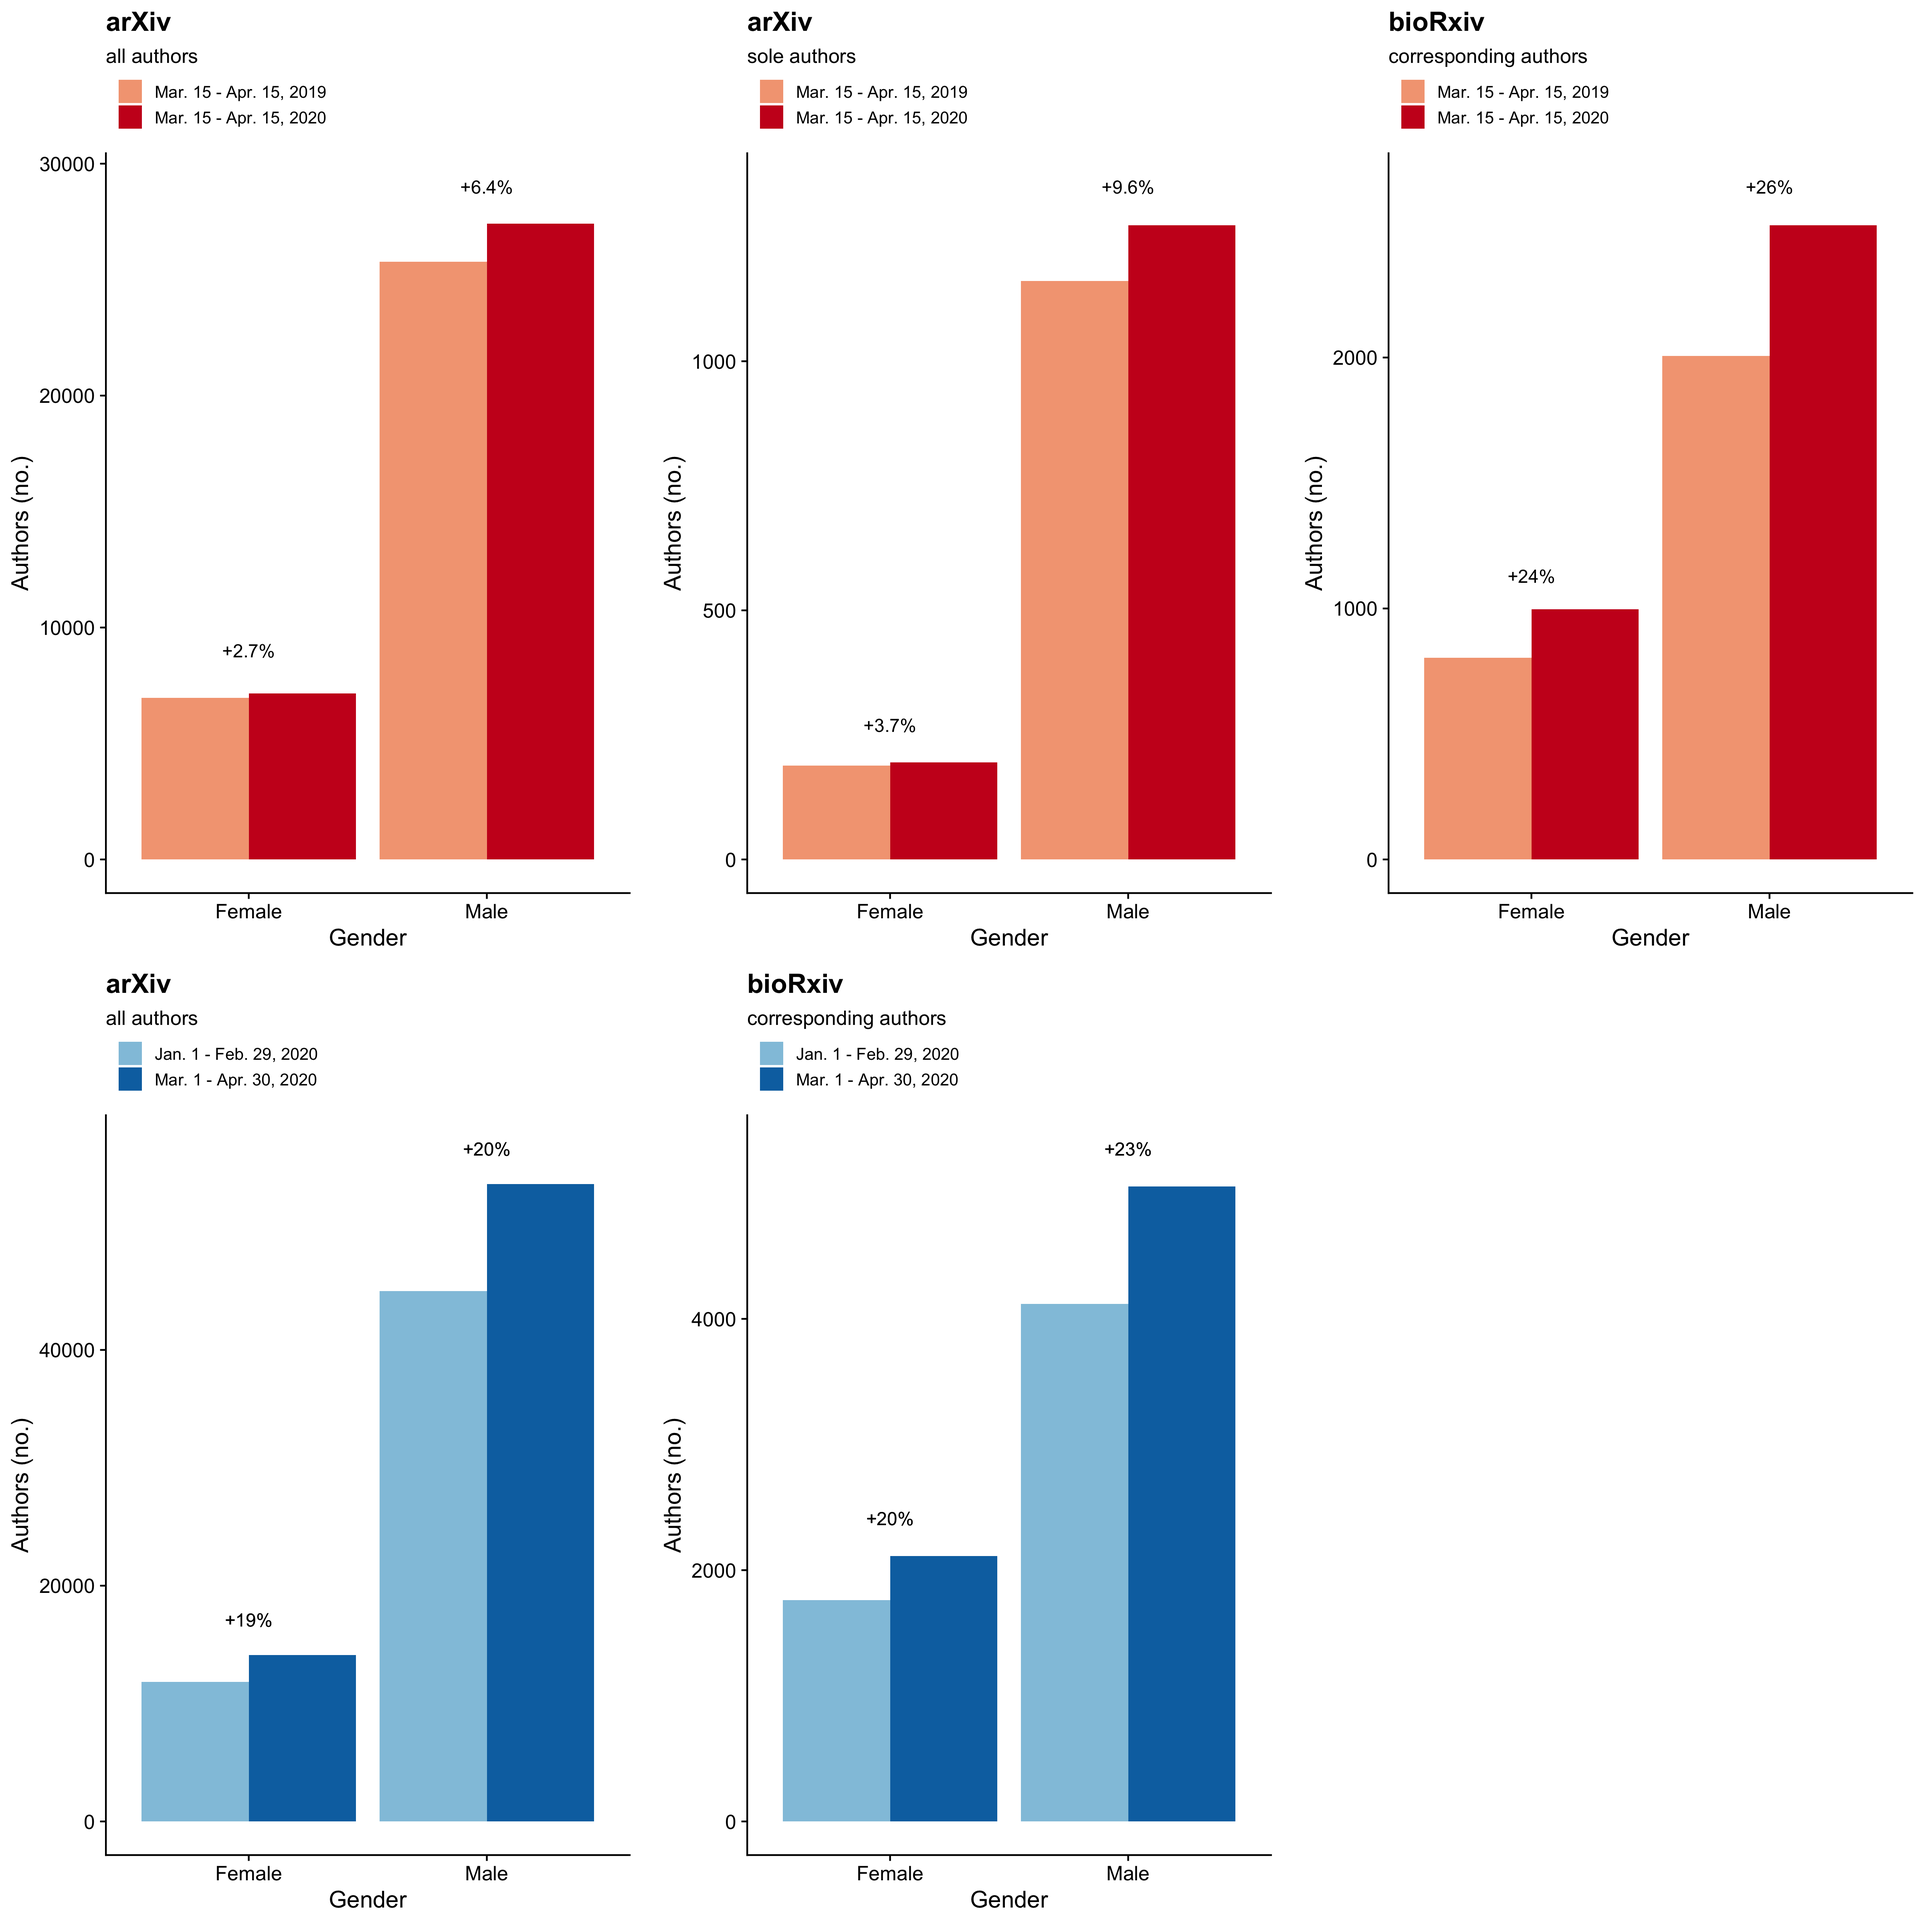
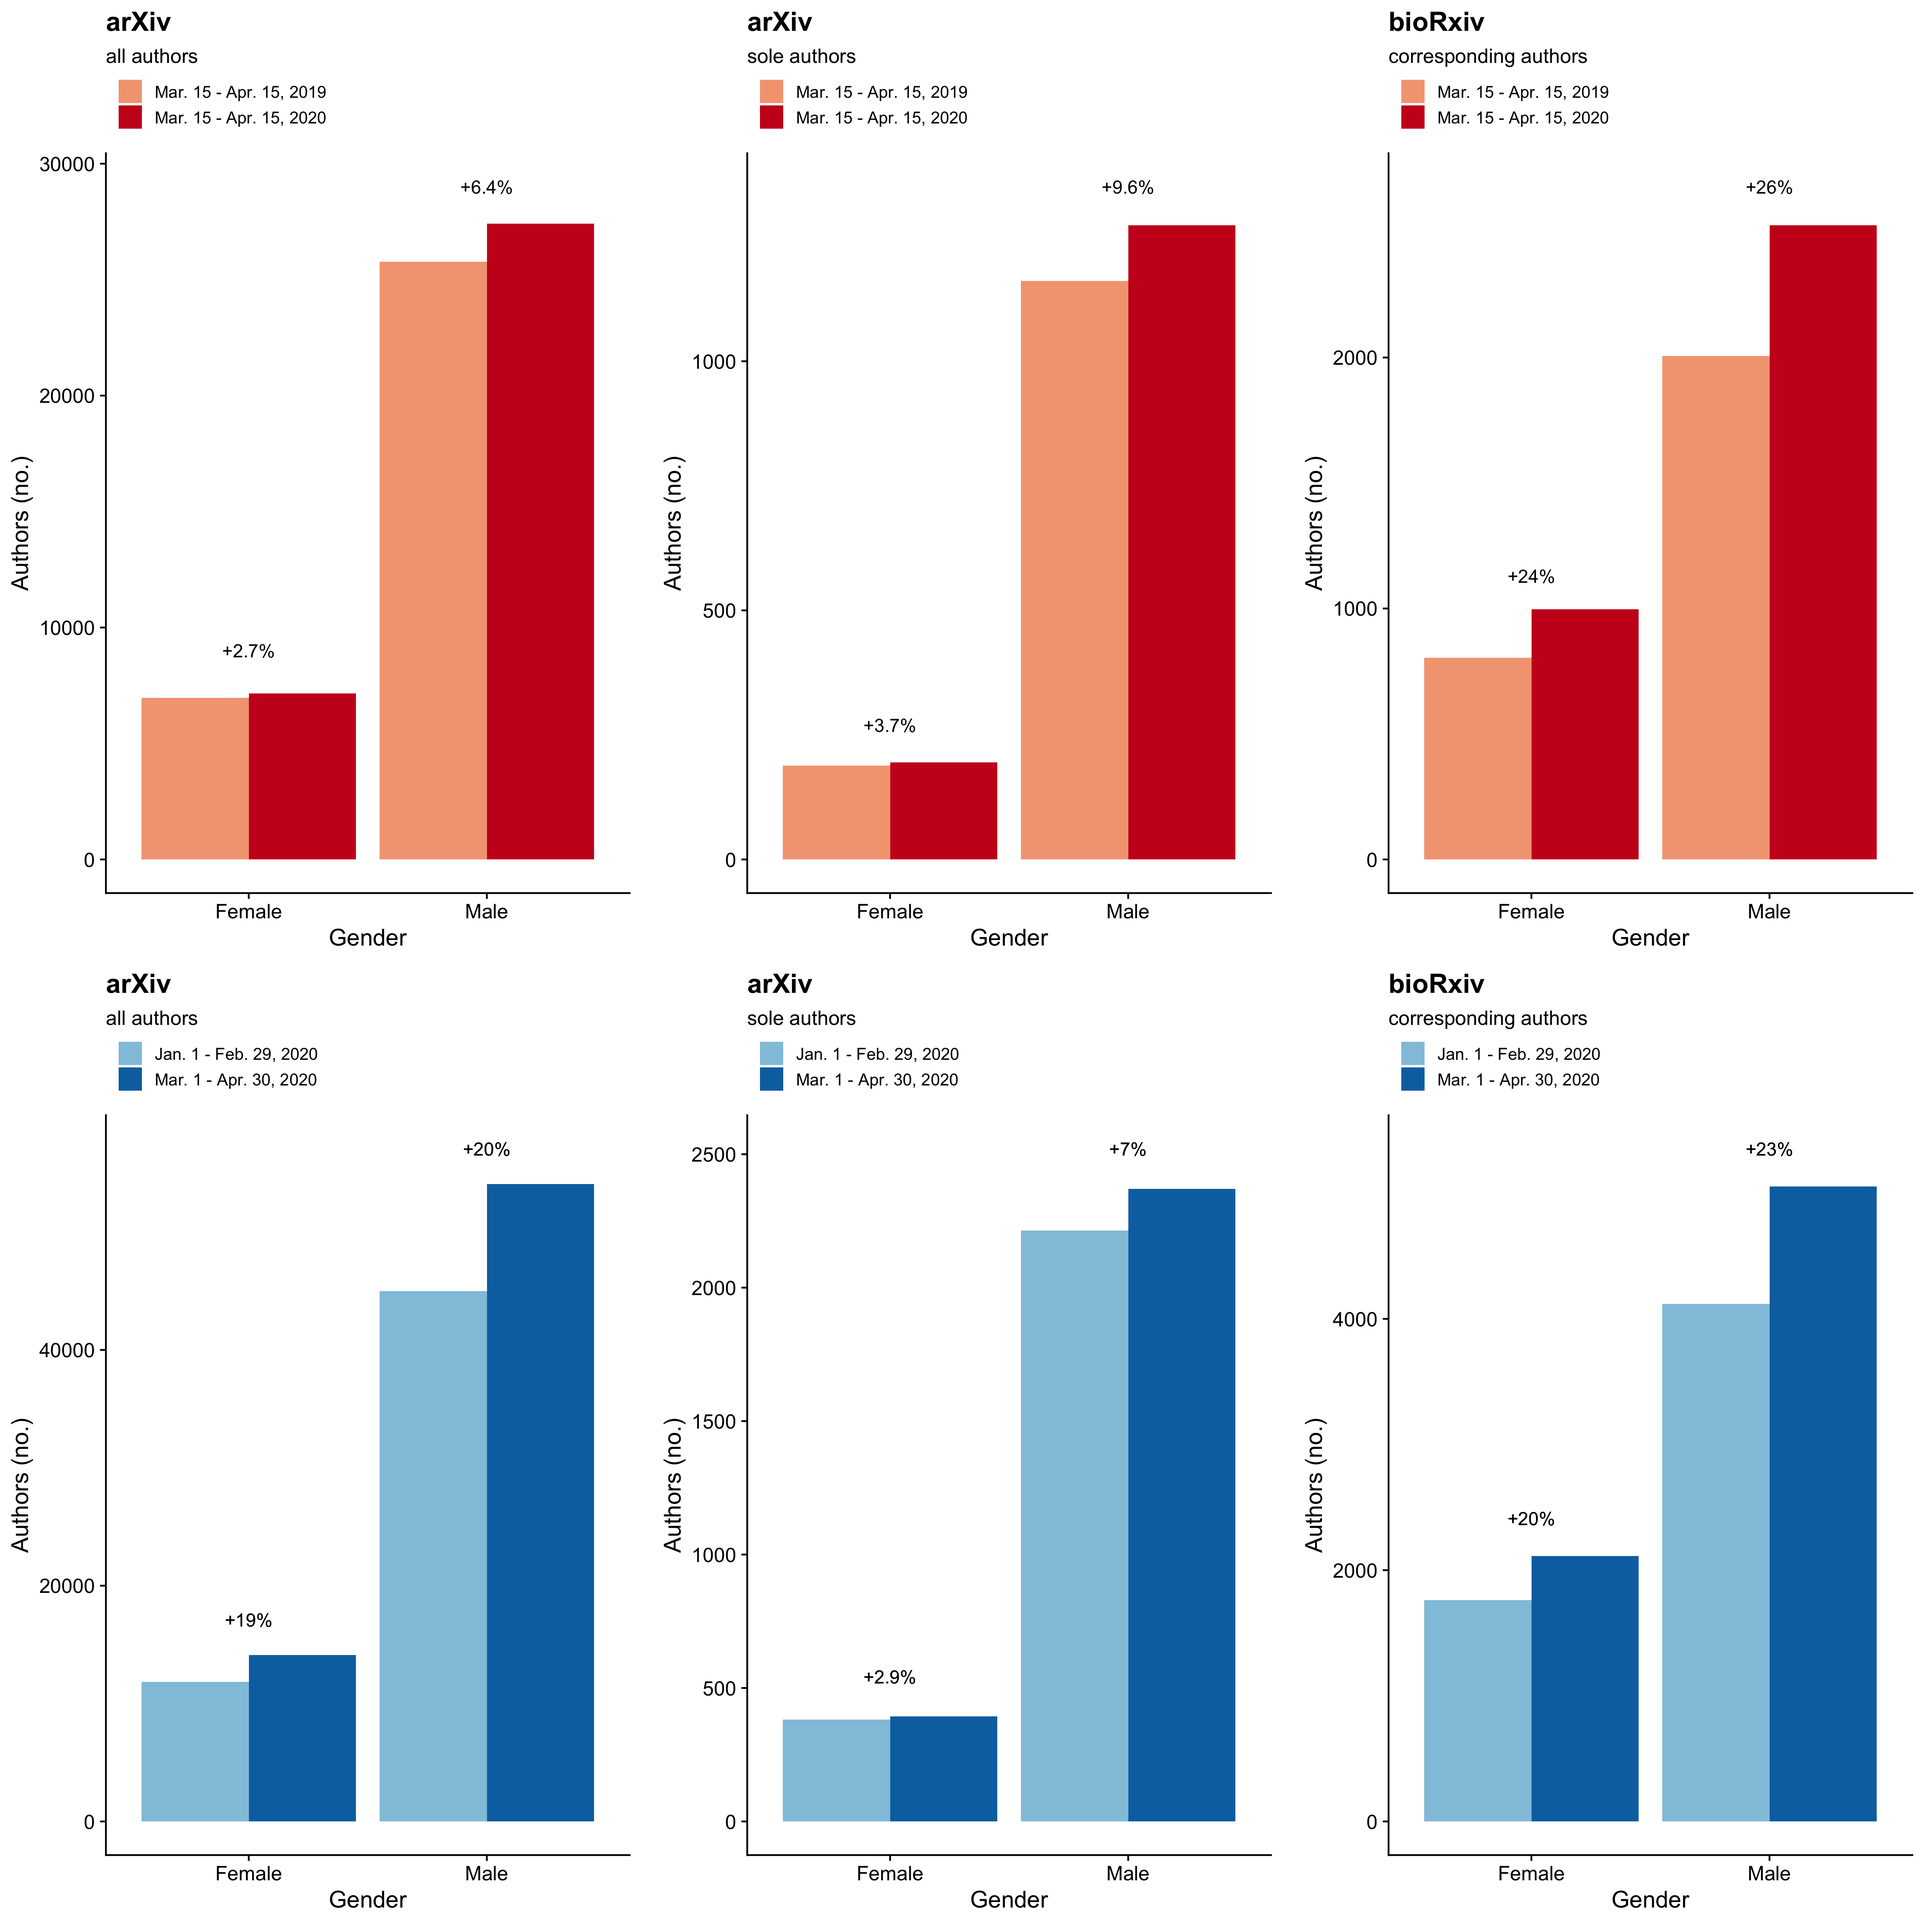
Update figures

diff --git a/README.md b/README.md
@@ -308,7 +308,29 @@ kable(arxiv.long[,1:3])
 
 Preprints had over 9000 more male authors during the pandemic than right
 before, while female authors increased by a little more than 2200 over
-the same period.
+the same
+period.
+
+``` r
+arxiv.sole <- as.data.frame(ungroup(subset(df.all2020, as.Date(submitted) >= "2020-01-01" & as.Date(submitted) <= "2020-04-30" & author.n == 1) %>% group_by(COVID) %>% summarize(female.n=sum(female.n, na.rm=TRUE), male.n=sum(male.n, na.rm=TRUE)))) #Summarize by month
+arxiv.sole.long <- gather(arxiv.sole, gender, n, female.n:male.n) #Make wide data long
+arxiv.sole.long$gender <- as.factor(arxiv.sole.long$gender) #Make sure gender is a factor
+levels(arxiv.sole.long$gender) <- c("Female", "Male") #Capitalize genders
+arxiv.sole.t <- as.data.frame(t(arxiv.sole[, -1])) #Transpose
+colnames(arxiv.sole.t) <- c("January 1-February 29, 2020", "March 1-April 30, 2020") #Fix column names
+arxiv.sole.t$per <- ((arxiv.sole.t$`March 1-April 30, 2020`-arxiv.sole.t$`January 1-February 29, 2020`)/(arxiv.sole.t$`January 1-February 29, 2020`))*100 #Calculate percent change
+arxiv.sole.long$per <- c(arxiv.sole.t$per[1],arxiv.sole.t$per[1],arxiv.sole.t$per[2],arxiv.sole.t$per[2]) #Add percent change to long-format dataframe
+bump = 150 #Set for figure annotation
+arxiv.sole.long$y <- c((arxiv.sole.long[2,3]+bump), (arxiv.sole.long[2,3]+bump), (arxiv.sole.long[4,3]+bump), (arxiv.sole.long[4,3]+bump)) #Y coordinates for figure text annotation
+arxiv.sole.long$x <- c(1,1,2,2) #X coordinates for figure text annotation
+m.labels=c("Jan. 1 - Feb. 29, 2020", "Mar. 1 - Apr. 30, 2020")
+
+#Make figure
+p4 <- ggplot(data=arxiv.sole.long, aes(fill=COVID, y=n, x=gender))+geom_bar(position="dodge", stat="identity")+theme_cowplot()+ggtitle("arXiv")+xlab("Gender")+ylab("Authors (no.)")+labs(fill="Gender")+theme(legend.position="top", legend.title=element_blank(), legend.text=element_text(size=fontsize), legend.justification="left")+geom_text(aes(x=x,y=y, label=paste0("+", round(per,digits=1), "%")))+scale_fill_manual(values = colours2, labels=m.labels)+labs(title="arXiv", subtitle="sole authors")+guides(fill=guide_legend(nrow=2))
+p4
+```
+
+![](README_files/figure-gfm/Early%202020%20arXiv%20sole%20author%20analysis-1.png)<!-- -->
 
 ## bioRxiv submissions
 
@@ -404,14 +426,14 @@ biorxiv.yr.wide <- spread(biorxiv.yr, year, n) #Make long data wide
 biorxiv.yr.wide$per.dif.1920 <- ((biorxiv.yr.wide$`2020`-biorxiv.yr.wide$`2019`)/biorxiv.yr.wide$`2019`)*100 #Calculate percent change, 2019 to 2020
 
 #Make figure for 2019 versus 2020 comparison
-p4 <- ggplot(data=biorxiv.yr, aes(fill=year, y=n, x=as.factor(gender)))+geom_bar(position="dodge",stat="identity")+theme_cowplot()+xlab("Gender")+ylab("Authors (no.)")+labs(fill="Year")+labs(fill="Date range")+scale_fill_manual(values = colours1, labels=yr.labels)+ggtitle("bioRxiv")+ggplot2::annotate("text", x=c(1,2),  y=c(1130,2680), label = paste0("+", round(biorxiv.yr.wide$per.dif.1920), "%"))+theme(legend.position="top", legend.justification="left", legend.title=element_blank(), legend.text=element_text(size=fontsize))+guides(fill = guide_legend(nrow=2))+labs(title="bioRxiv", subtitle="corresponding authors")
-p4
+p5 <- ggplot(data=biorxiv.yr, aes(fill=year, y=n, x=as.factor(gender)))+geom_bar(position="dodge",stat="identity")+theme_cowplot()+xlab("Gender")+ylab("Authors (no.)")+labs(fill="Year")+labs(fill="Date range")+scale_fill_manual(values = colours1, labels=yr.labels)+ggtitle("bioRxiv")+ggplot2::annotate("text", x=c(1,2),  y=c(1130,2680), label = paste0("+", round(biorxiv.yr.wide$per.dif.1920), "%"))+theme(legend.position="top", legend.justification="left", legend.title=element_blank(), legend.text=element_text(size=fontsize))+guides(fill = guide_legend(nrow=2))+labs(title="bioRxiv", subtitle="corresponding authors")
+p5
 ```
 
 ![](README_files/figure-gfm/Visualize%20bioRxiv%202019%20versus%202020%20data-1.png)<!-- -->
 
 ``` r
-p5 <- plot_grid(p1, p2, p4, nrow=1, align='hv', axis='lb') #Combine into part of a single figure
+p6 <- plot_grid(p1, p2, p5, nrow=1, align='hv', axis='lb') #Combine into part of a single figure
 ```
 
 The same data in tabular
@@ -454,15 +476,14 @@ biorxiv$y <- c((biorxiv[3,3]+bump), (biorxiv[4,3]+bump), (biorxiv[3,3]+bump), (b
 biorxiv$x <- c(1,2,1,2) #x coodinates for figure text
 
 #Make figure
-p6 <- ggplot(data=biorxiv, aes(fill=COVID, y=n, x=gender))+geom_bar(position="dodge", stat="identity")+theme_cowplot()+ggtitle("bioRxiv")+xlab("Gender")+ylab("Authors (no.)")+labs(fill="Date range")+scale_fill_manual(values = colours2, labels=m.labels)+theme(legend.position="top", legend.justification="left", legend.title=element_blank(), legend.text=element_text(size=fontsize))+geom_text(aes(x=x,y=y, label=paste0("+", round(per), "%")))+labs(title="bioRxiv", subtitle="corresponding authors")+guides(fill=guide_legend(nrow=2))
-p6
+p7 <- ggplot(data=biorxiv, aes(fill=COVID, y=n, x=gender))+geom_bar(position="dodge", stat="identity")+theme_cowplot()+ggtitle("bioRxiv")+xlab("Gender")+ylab("Authors (no.)")+labs(fill="Date range")+scale_fill_manual(values = colours2, labels=m.labels)+theme(legend.position="top", legend.justification="left", legend.title=element_blank(), legend.text=element_text(size=fontsize))+geom_text(aes(x=x,y=y, label=paste0("+", round(per), "%")))+labs(title="bioRxiv", subtitle="corresponding authors")+guides(fill=guide_legend(nrow=2))
+p7
 ```
 
 ![](README_files/figure-gfm/Visualize%20bioRxiv%202020%20data-1.png)<!-- -->
 
 ``` r
-p7 <- plot_grid(p3, p6, nrow=1, align='hv', axis='lb') #Combine into part of a single figure
-p7 <- plot_grid(p7, NULL, nrow=1, rel_widths=c(2,1))
+p8 <- plot_grid(p3, p4, p7, nrow=1, align='hv', axis='lb') #Combine into part of a single figure
 ```
 
 The same data, but in tabular form:
@@ -483,14 +504,14 @@ kable(biorxiv[,1:3])
 Finally, I put it all together in a single figure.
 
 ``` r
-p8 <- plot_grid(p5, p7, nrow=2, align = 'v', axis='l')
-p8 #Omnibus figure
+p9 <- plot_grid(p6, p8, nrow=2, align = 'v', axis='l')
+p9 #Omnibus figure
 ```
 
 ![](README_files/figure-gfm/Combine%20visualizations-1.png)<!-- -->
 
 ``` r
-save_plot("figure.png", p8, base_height=8, base_width=8)
+save_plot("figure.png", p9, base_height=8, base_width=8, dpi=600)
 ```
 
 Throughout this analysis, effects are likely conservative because many
